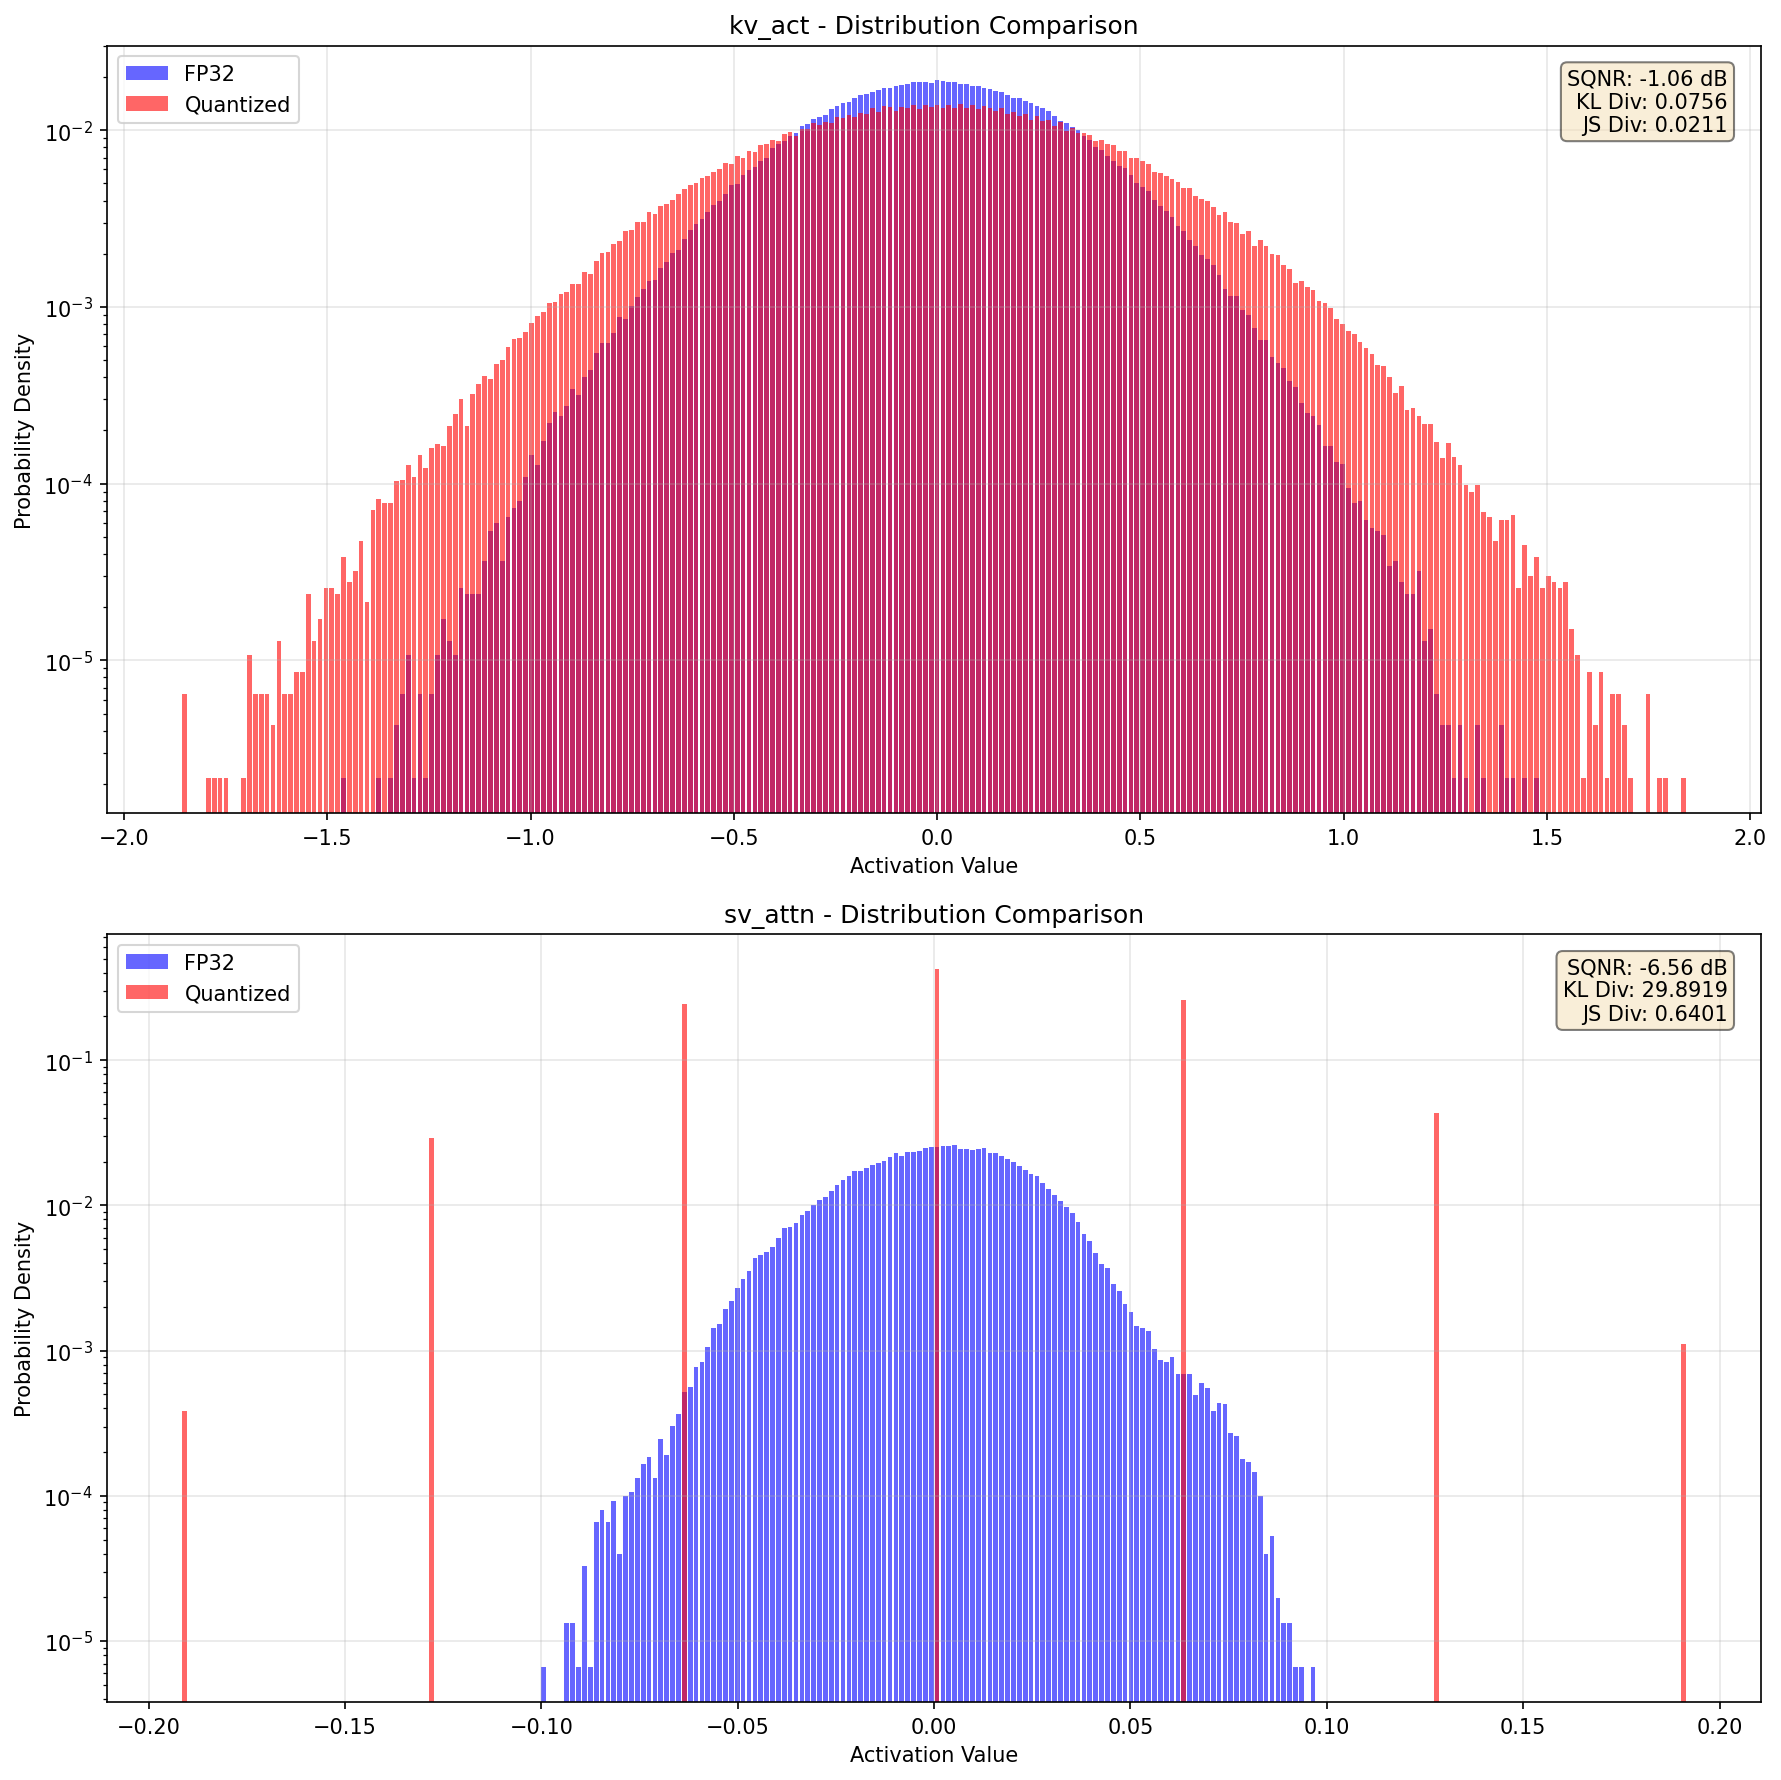
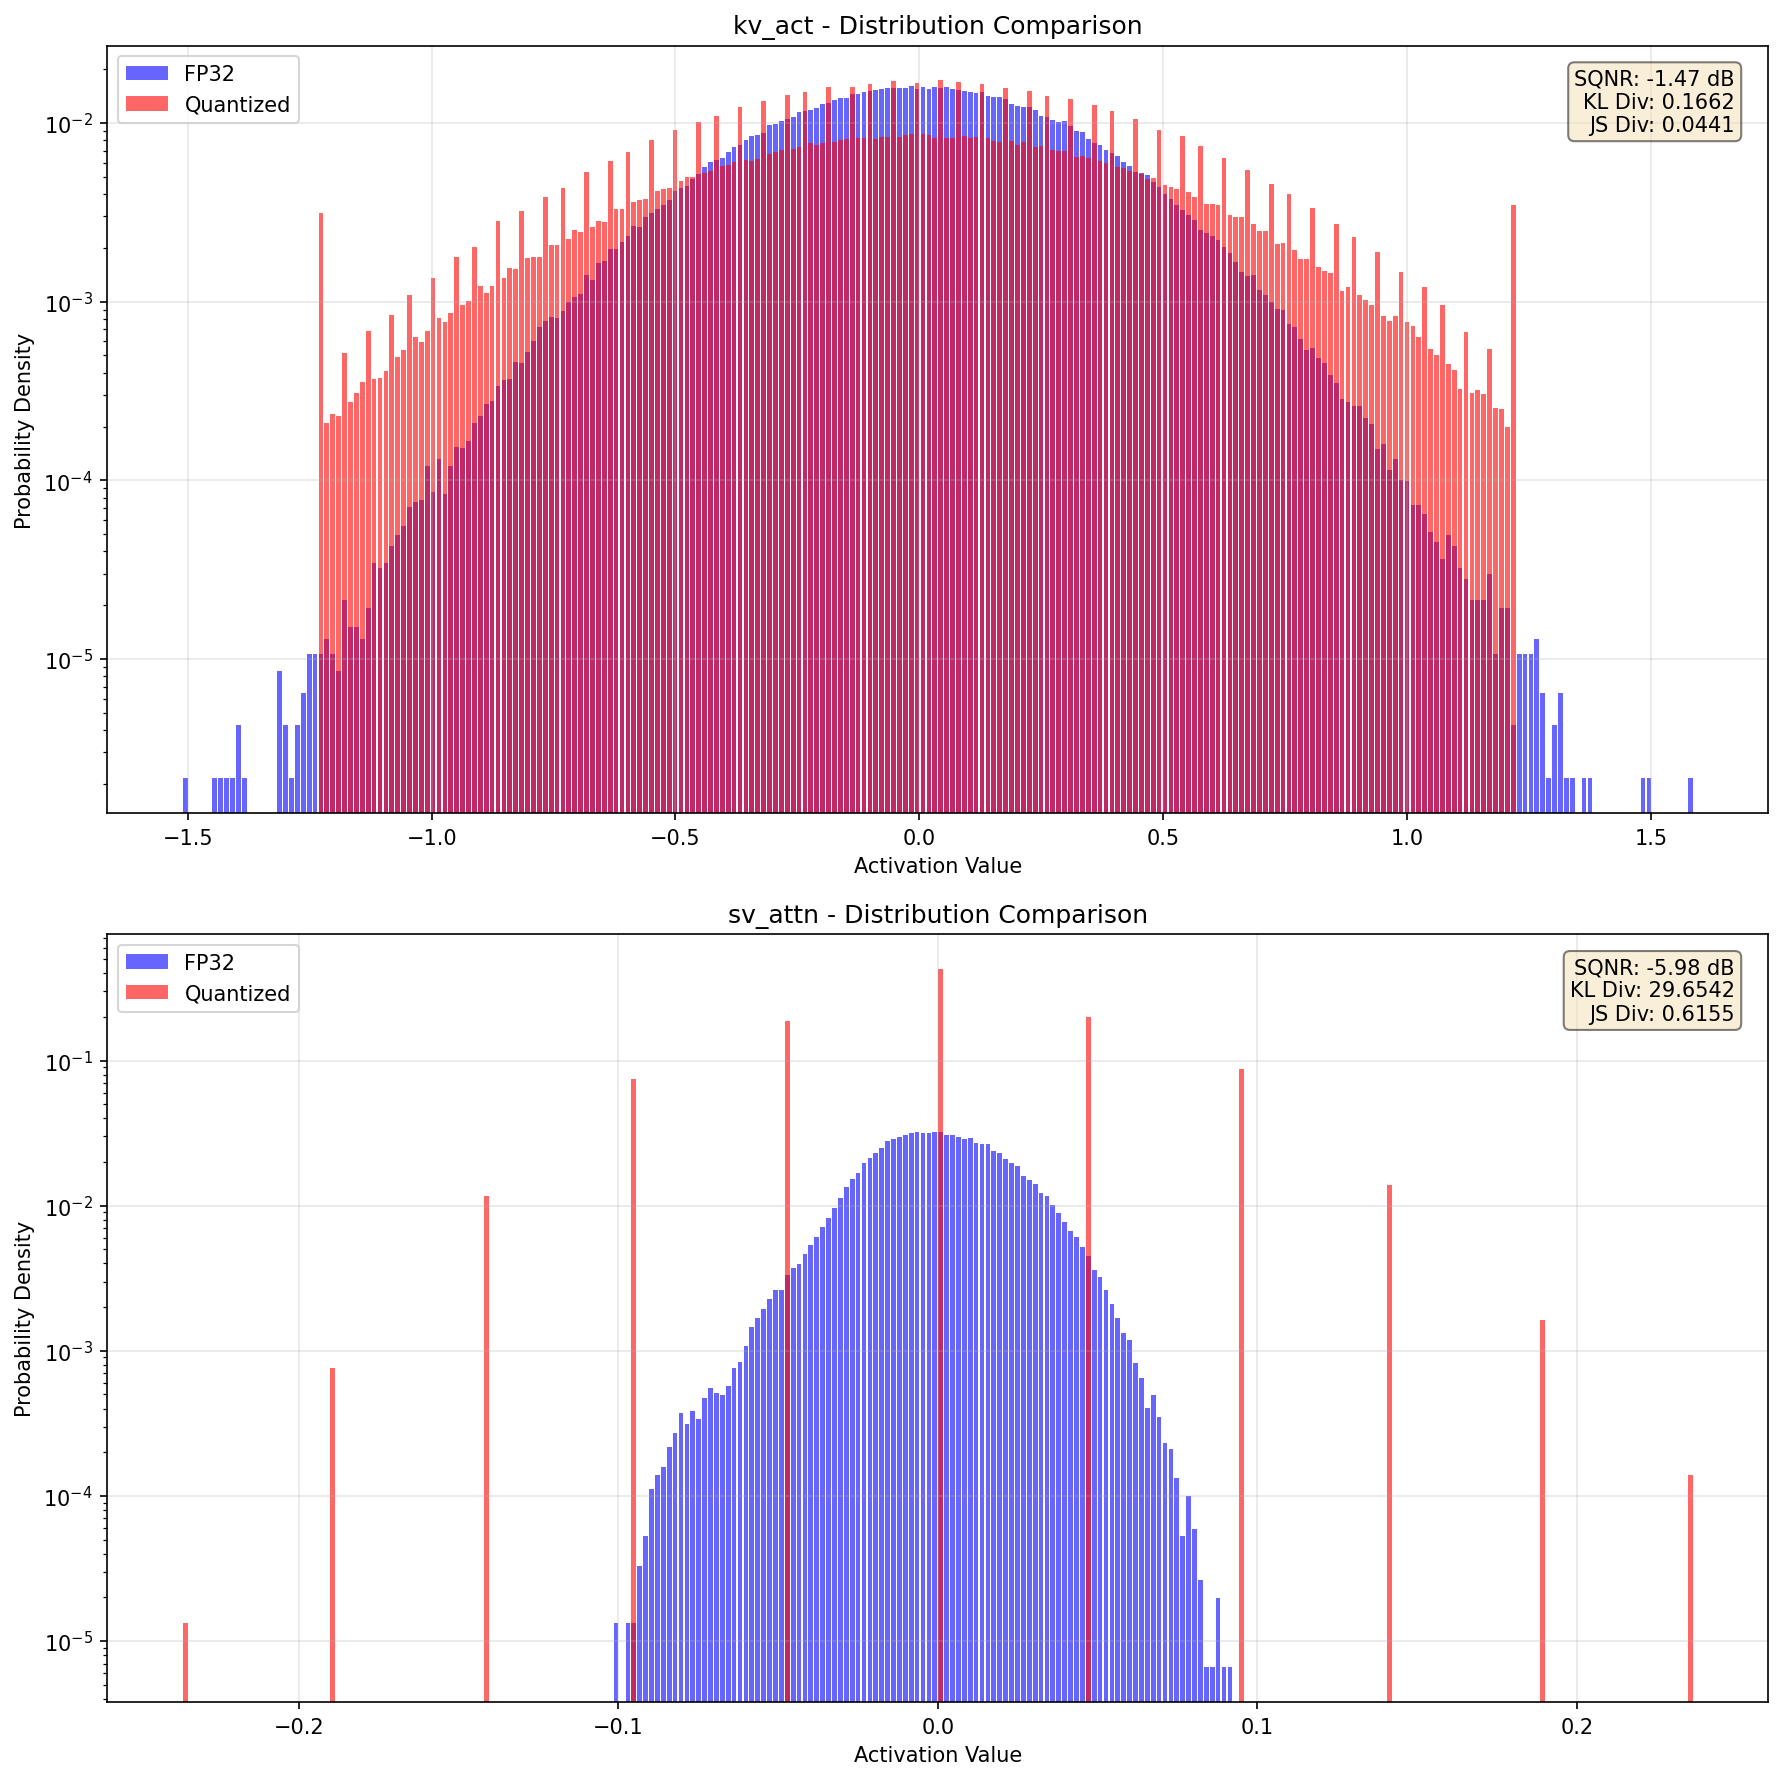
Update quantization parameters and enhance OmseObserver functionality

diff --git a/models/ptq/layer_observer/omse.py b/models/ptq/layer_observer/omse.py
@@ -8,87 +8,67 @@ from ..bit_type import BitType
 
 
 class OmseObserver(BaseObserver):
-    """
-    OMSE (Optimal MSE) Observer for Weight Quantization Only.
-
-    Uses grid search to find optimal clipping range that minimizes L2 loss.
-    NOT recommended for activation quantization due to memory constraints.
-    Use PercentileObserver or MinmaxObserver for activations instead.
-    """
-    def __init__(self,
-                 bit_type,
-                 module_type,
-                 calibration_mode):
-        # Activation은 지원하지 않음
-        if module_type == 'activation':
-            raise ValueError(
-                "OmseObserver is not supported for activation quantization. "
-                "Reason: OMSE requires storing full tensor for grid search, "
-                "which causes memory explosion with multiple calibration batches. "
-                "Use PercentileObserver or MinmaxObserver for activations instead."
-            )
-
-        super(OmseObserver, self).__init__(bit_type, module_type,
-                                           calibration_mode)
-
+    def __init__(self, bit_type, module_type, calibration_mode):
+        # Activation도 이제 지원 가능!
+        super().__init__(bit_type, module_type, calibration_mode)
+        
         self.symmetric = self.bit_type.signed
         self.max_val = None
         self.min_val = None
-        self.device = None
-        self.v = None
-
+        self.calibration_data = []  # FP32 배치들을 저장
+        self.max_batches = 10  # 메모리 제한 (선택사항)
+    
     def update(self, v):
-        """
-        Update observer with weight tensor.
-
-        For weight quantization, multiple calls will merge data
-        (though typically weights are fixed and only need one call).
-        """
-        # device check 1st time
-        if self.device is None:
-            self.device = v.device.type
-
-        # test device match
-        if self.device != v.device.type:
-            raise ValueError(
-                "Device type mismatch in observer."
-                f"Expected device type: {self.device}, but got: {v.device.type}")
-
+        """배치마다 호출 - FP32 저장 + min/max 업데이트"""
         v = self.reshape_tensor(v)
-
-        # Weight 갱신: 최초면 할당, 이후면 concat (weight는 보통 1번만 호출)
-        if self.v is None:
-            self.v = v.detach()
-        else:
-            self.v = torch.cat([self.v, v.detach()], dim=1)
-
+        
+        # 1. FP32 데이터 저장 (나중에 OMSE 계산용)
+        self.calibration_data.append(v.detach().cpu())  # CPU로 옮겨서 GPU 메모리 절약
+        
+        # 메모리 제한 (선택사항)
+        if len(self.calibration_data) > self.max_batches:
+            self.calibration_data.pop(0)  # 오래된 배치 제거
+        
+        # 2. Min/Max 통계 업데이트 (layer/channel-wise)
         cur_max = v.max(axis=1).values
+        cur_min = v.min(axis=1).values
+        
         if self.max_val is None:
             self.max_val = cur_max
-        else:
-            self.max_val = torch.max(cur_max, self.max_val)
-        
-        cur_min = v.min(axis=1).values
-        if self.min_val is None:
             self.min_val = cur_min
         else:
+            self.max_val = torch.max(cur_max, self.max_val)
             self.min_val = torch.min(cur_min, self.min_val)
-
+        
+        # 3. layer_wise면 스칼라로 변환
         if self.calibration_mode == 'layer_wise':
             self.max_val = self.max_val.max()
             self.min_val = self.min_val.min()
-
+    
     def get_quantization_params(self):
-        max_val = self.max_val
-        min_val = self.min_val
+        """Grid search with all calibration data"""
+        # 저장된 모든 배치를 합쳐서 OMSE 계산
+        all_data = torch.cat(self.calibration_data, dim=1)  # 모든 배치 concat
+        
+        # GPU로 옮겨서 grid search
+        device = 'cuda' if torch.cuda.is_available() else 'cpu'
+        all_data = all_data.to(device)
+        
+        max_val = self.max_val.to(device)
+        min_val = self.min_val.to(device)
         qmax = self.bit_type.upper_bound
         qmin = self.bit_type.lower_bound
-
+        
         best_score = 1e+10
-        for i in range(90):
-            new_max = max_val * (1.0 - (i * 0.01))
-            new_min = min_val * (1.0 - (i * 0.01))
+        search_iterations = 100
+        keep_ratios = torch.logspace(0, -4, steps=search_iterations).to(device)
+        
+        # Grid search (90 iterations)
+        for keep_ratio in keep_ratios:
 
+            new_max = max_val * keep_ratio
+            new_min = min_val * keep_ratio
+            
             if self.symmetric:
                 new_max = torch.max(-new_min, new_max)
                 new_scale = new_max / (float(qmax - qmin) / 2)
@@ -97,33 +77,34 @@ class OmseObserver(BaseObserver):
                 new_scale = (new_max - new_min) / float(qmax - qmin)
                 new_zero_point = qmin - torch.round(new_min / new_scale)
                 new_zero_point.clamp_(qmin, qmax)
-                
-            # layer_wise면 스칼라, channel_wise면 vector
+            
+            # Quantize & Dequantize
             if self.calibration_mode == 'layer_wise':
-                # unsqueeze 불필요
-                inputs_q = ((self.v / new_scale + new_zero_point).round().clamp(
+                inputs_q = ((all_data / new_scale + new_zero_point).round().clamp(
                     qmin, qmax) - new_zero_point) * new_scale
             else:
-                # channel_wise일 때만 unsqueeze
+                # channel_wise
                 new_scale_expanded = new_scale.unsqueeze(1)
                 new_zero_point_expanded = new_zero_point.unsqueeze(1)
-                inputs_q = ((self.v / new_scale_expanded + new_zero_point_expanded).round().clamp(
+                inputs_q = ((all_data / new_scale_expanded + new_zero_point_expanded).round().clamp(
                     qmin, qmax) - new_zero_point_expanded) * new_scale_expanded
-
-            # L_p norm minimization as described in LAPQ
-            # https://arxiv.org/abs/1911.07190
-            score = lp_loss(self.v, inputs_q, p=2.0, reduction='all')
+            
+            # L2 loss
+            score = lp_loss(all_data, inputs_q, p=2.0, reduction='all')
+            
             if score < best_score:
-                # print(f"Best score updated: {score}")
-                # print(f"original max: {self.max_val}, original min: {self.min_val}")
-                # print(f"New max: {new_max}, New min: {new_min}")
                 best_score = score
                 self.max_val = new_max
                 self.min_val = new_min
                 scale = new_scale
                 zero_point = new_zero_point
         
+        # 메모리 정리
+        del all_data
+        self.calibration_data.clear()  # 더 이상 필요 없음
+        
         return scale, zero_point
+
     
 def main():
     print("=" * 70)

diff --git a/models/ptq/layer_quantizer/uniform.py b/models/ptq/layer_quantizer/uniform.py
@@ -25,11 +25,16 @@ class UniformQuantizer(BaseQuantizer):
         self.scale, self.zero_point = scale, zero_point
 
     def quant(self, inputs, scale=None, zero_point=None):
-
+        
+        #check the None of parameter
         if scale is None:
             scale = self.scale
         if zero_point is None:
             zero_point = self.zero_point
+
+        scale = scale.to(inputs.device)
+        zero_point = zero_point.to(inputs.device)
+        
 
         range_shape = self.get_reshape_range(inputs)
         scale = scale.reshape(range_shape)
@@ -45,7 +50,10 @@ class UniformQuantizer(BaseQuantizer):
             scale = self.scale
         if zero_point is None:
             zero_point = self.zero_point
-            
+        
+        scale = scale.to(inputs.device)
+        zero_point = zero_point.to(inputs.device)
+                    
         range_shape = self.get_reshape_range(inputs)
         scale = scale.reshape(range_shape)
         zero_point = zero_point.reshape(range_shape)

diff --git a/models/ptq/quant_intSoft.py b/models/ptq/quant_intSoft.py
@@ -98,6 +98,7 @@ class QuantIntSoft(nn.Module):
 
     @staticmethod
     def int_softmax(x, scaling_factor):
+        scaling_factor = scaling_factor.to(x.device)
         x_int = x / scaling_factor
 
         #for numerical stability
